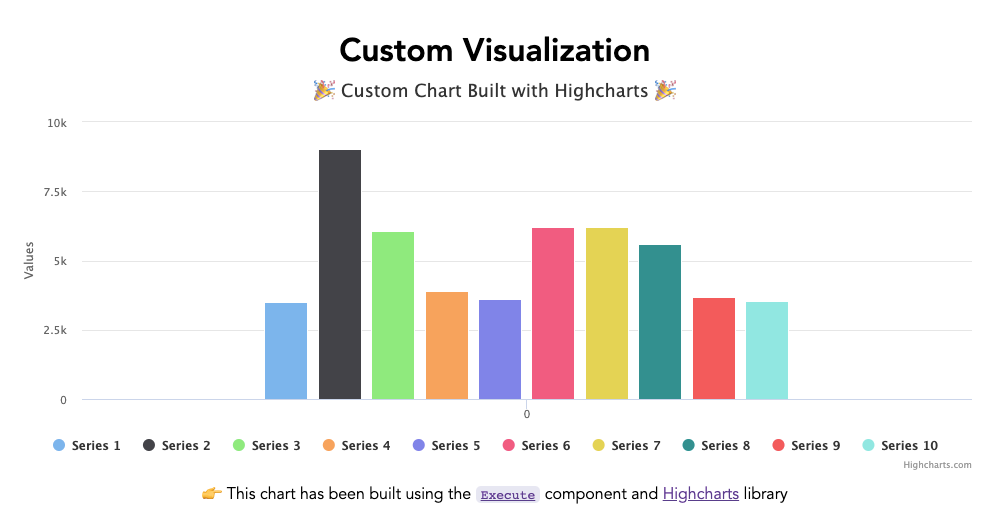
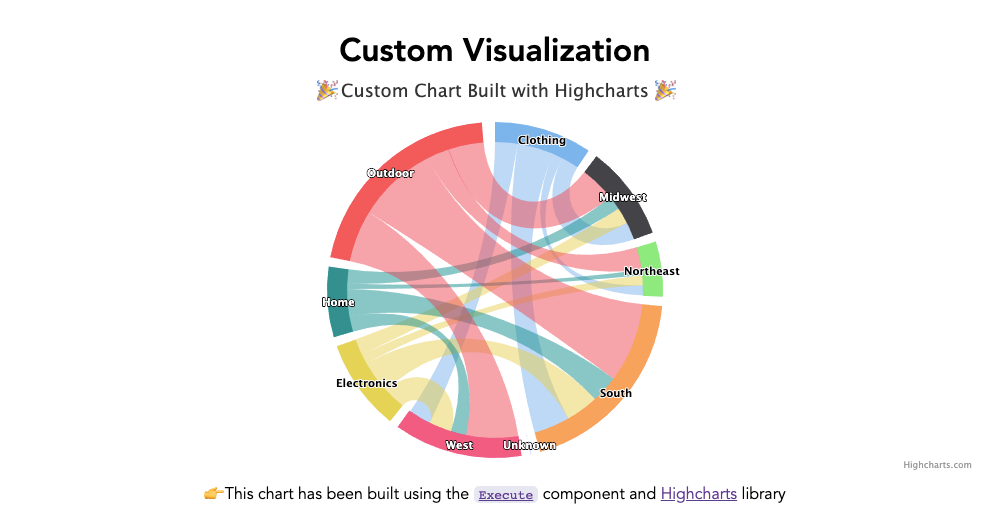
FEATURE: MKB-1685 Improve Execute example

diff --git a/example-execute/src/App/CustomVisualization.js b/example-execute/src/App/CustomVisualization.js
@@ -1,7 +1,13 @@
 // (C) 2020 GoodData Corporation
 import React from "react";
-import ReactHighcharts from "react-highcharts";
+import Highcharts from "highcharts";
+import HighchartSankey from "highcharts/modules/sankey";
+import HighchartsWheel from "highcharts/modules/dependency-wheel";
+import HighchartsReact from "highcharts-react-official";
 import * as Ldm from "../ldm";
+
+HighchartSankey(Highcharts);
+HighchartsWheel(Highcharts);
 
 export default ({ error, isLoading, result }) => {
   if (isLoading) {
@@ -13,23 +19,36 @@ export default ({ error, isLoading, result }) => {
   }
 
   if (result) {
-    const config = {
-      chart: {
-        type: "column"
-      },
-      title: {
-        text: "🎉 Custom Chart Built with Highcharts 🎉"
-      },
-      series: result
-        .data()
-        .series()
-        .firstForMeasure(Ldm.RevenueTop10)
-        .dataPoints()
-        .map((row, i) => ({ data: [parseFloat(row.rawValue)] }))
-    };
+    const data = result
+      .data()
+      .series()
+      .firstForMeasure(Ldm.Revenue)
+      .dataPoints()
+      .map((dataPoint) => ({
+        from: dataPoint.sliceDesc.headers[0].attributeHeaderItem.name,
+        to: dataPoint.sliceDesc.headers[1].attributeHeaderItem.name,
+        weight: parseFloat(dataPoint.rawValue)
+      }));
 
-    return <ReactHighcharts config={config} />;
+    return (
+      <HighchartsReact
+        highcharts={Highcharts}
+        options={{
+          chart: {
+            type: "dependencywheel"
+          },
+          title: {
+            text: "🎉 Custom Chart Built with Highcharts 🎉"
+          },
+          series: [
+            {
+              data
+            }
+          ]
+        }}
+      />
+    );
   }
 
-  return "🧟♂ UGLY INIT";
+  return <span>Init…</span>;
 };

diff --git a/example-execute/src/App/index.js b/example-execute/src/App/index.js
@@ -10,7 +10,7 @@ export default () => (
     <h1>Custom Visualization</h1>
 
     <div style={{ height: 400 }}>
-      <Execute seriesBy={[Ldm.RevenueTop10]} slicesBy={[Ldm.CustomerName]}>
+      <Execute seriesBy={[Ldm.Revenue]} slicesBy={[Ldm.ProductCategory, Ldm.CustomerRegion]}>
         {CustomVisualization}
       </Execute>
     </div>
